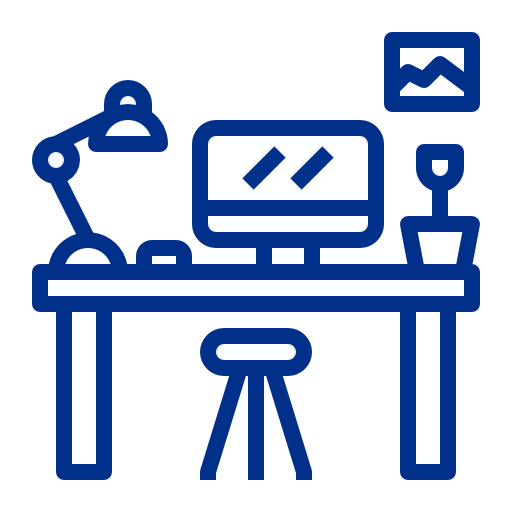
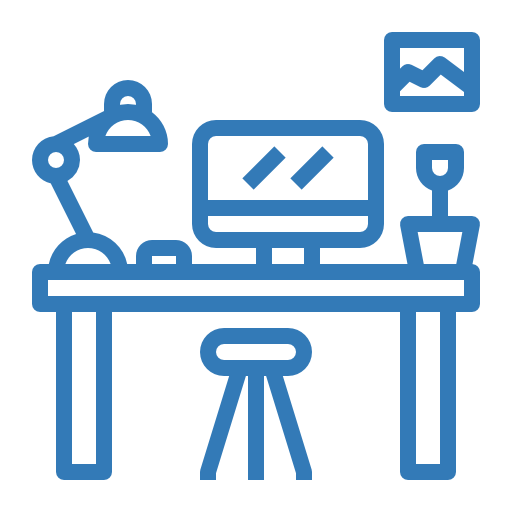
Se cambiaron los colores de los iconos al nuevo azul

Changed region(s): [[0.0625, 0.1562, 0.9375, 0.9375], [0.75, 0.0625, 0.9375, 0.2188]]

diff --git a/views/inventarios/index.html b/views/inventarios/index.html
@@ -85,7 +85,7 @@
           <!-- Boton Material de laboratorio -->
           <div class="col-sm-4 columnas">
             <a href="{{=URL('herramientas')}}">
-              <img class="iconos" src="{{=URL('static','inventarios/images/workplace.png')}}">
+              <img class="iconos" src="{{=URL('static','inventarios/images/maintenance.png')}}">
               <h4 class="opciones">Herramientas</h4>
             </a>
           </div>
